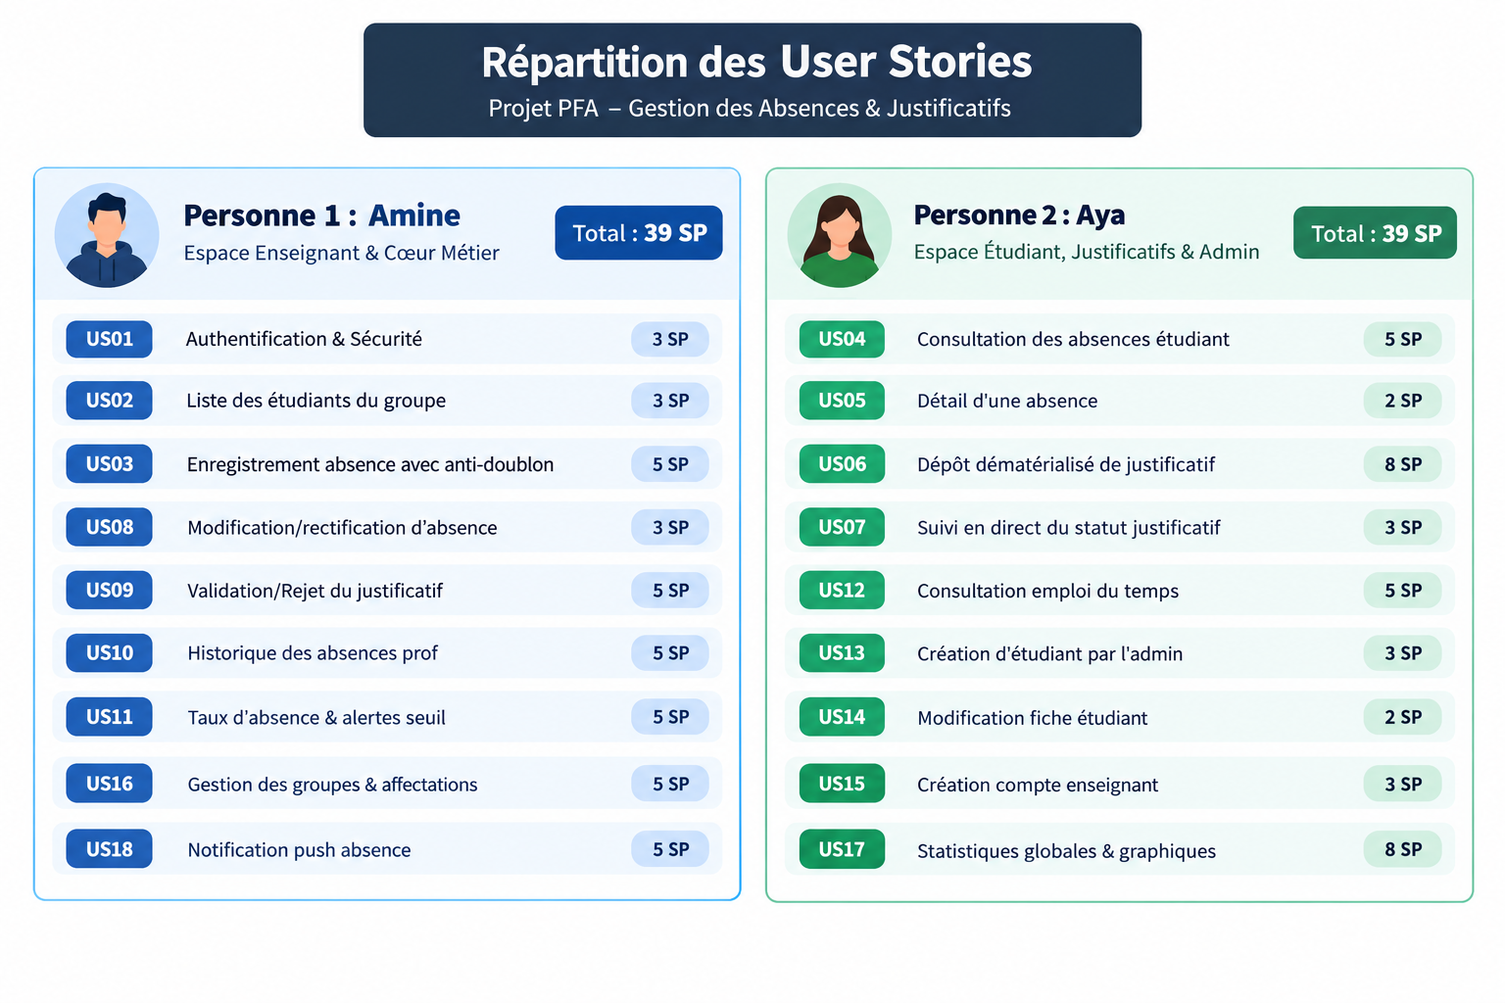
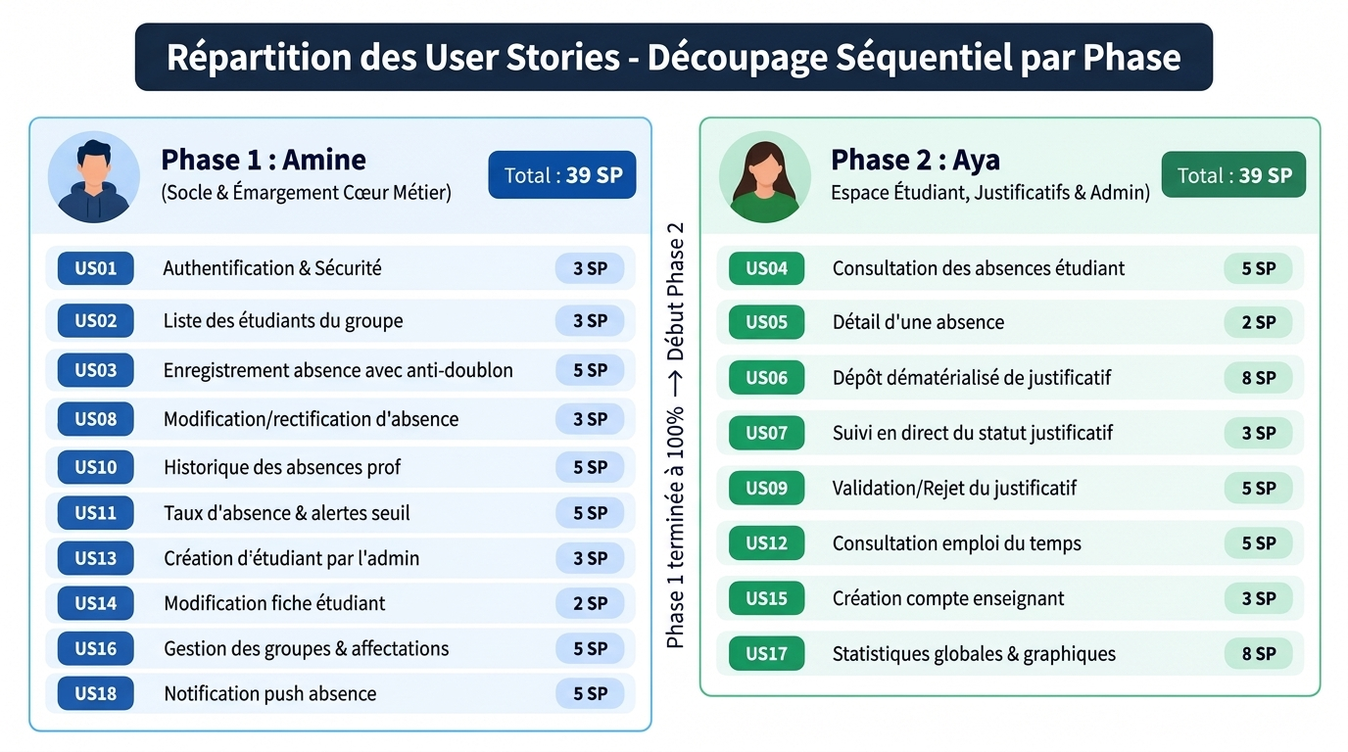
docs: sequential phase-based task breakdown (Amine Phase 1 then Aya Phase 2, 39 SP each)

Changed region(s): [[0.0, 0.0, 1.0, 1.0], [0.9062, 0.3125, 0.9688, 0.6562]]

diff --git a/docs/README_AMINE.md b/docs/README_AMINE.md
@@ -1,90 +1,84 @@
-# 📋 Feuille de Route & Tâches — Amine NAHLI (Personne 1)
+# 📋 Feuille de Route & Tâches — Amine NAHLI (Phase 1 : Socle & Cœur Métier)
 
-> **Rôle :** Responsable du Socle Technique, Authentification, Espace Enseignant & Cœur Métier des Absences  
-> **Volume Agile :** 39 Story Points (Sprint 1 & Sprint 2)  
-> **Ordre de démarrage :** 🚀 **En premier** (Mise en place de la base commune)  
-> **Branche Git :** `feature/amine-enseignant-core`
-
----
-
-## 🎯 Objectif Général
-Amine met en place le socle d'authentification et toute la logique métier liée aux enseignants : sélection des groupes, appel interactif, enregistrement sans doublon, modification et arbitrage des justificatifs.
+> **Rôle :** Responsable du Socle Technique, Authentification, Gestion Académique & Cœur Métier de l'Émargement  
+> **Volume Agile :** 39 Story Points (Sprint 1 — 100% autonome et séquentiel)  
+> **Ordre d'exécution :** 🚀 **PARTIE 1 — Réalisée et terminée intégralement en premier**  
+> **Principe clé :** Amine réalise l'intégralité de la chaîne d'émargement sans aucune dépendance envers Aya. Lorsque la Partie 1 est finie, elle est livrée et validée.  
+> **Branche Git :** `feature/amine-phase1-core`
 
 ---
 
-## 📌 User Stories prises en charge (39 SP)
+## 🎯 Objectif Général de la Partie 1
 
-| ID | Intitulé de la User Story | Priorité | Estimation |
-| :--- | :--- | :---: | :---: |
-| **US01** | Se connecter à l'application (Enseignant / Étudiant / Admin) | **Haute** | **3 SP** |
-| **US02** | Consulter la liste des étudiants d'un groupe (pour l'appel) | **Haute** | **3 SP** |
-| **US03** | Enregistrer l'absence d'un étudiant (avec blocage de doublon) | **Haute** | **5 SP** |
-| **US08** | Modifier / rectifier une absence en cas d'erreur de saisie | **Moyenne** | **3 SP** |
-| **US09** | Valider ou refuser un justificatif d'absence (côté enseignant) | **Moyenne** | **5 SP** |
-| **US10** | Consulter l'historique des absences par groupe et matière | **Moyenne** | **5 SP** |
-| **US11** | Consulter le taux d'absentéisme d'un étudiant avec alerte de seuil | **Basse** | **5 SP** |
-| **US16** | Gérer les groupes et les affectations de cours | **Moyenne** | **5 SP** |
-| **US18** | Notification push lors de l'enregistrement d'une absence | **Basse** | **5 SP** |
+Amine met en place le socle d'authentification, le modèle relationnel PostgreSQL, l'administration de base des étudiants et des groupes, ainsi que **tout le cycle de prise d'absence côté enseignant** (sélection de groupe, appel interactif, blocage anti-doublon, modification, historique, calcul du taux d'absentéisme et notifications push).
 
 ---
 
-## 🛠 Travail à Réaliser par Couche
+## 📌 User Stories prises en charge par Amine (39 SP)
 
-### 1. Socle Commun (À faire dès le début)
-- [ ] **Modèle de données relationnel (Spring Boot JPA) :**
-  - Entité `User` (`id`, `nom`, `prenom`, `email`, `motDePasse`, `role` : ENSEIGNANT, ETUDIANT, ADMIN).
-  - Entité `Enseignant` (spécialisation ou liée à `User`).
-  - Entité `Groupe` (`id`, `nom`, `filiere`, `annee`).
-  - Entité `Absence` (`id`, `etudiant_id`, `enseignant_id`, `date`, `seance`, `matiere`, `statut` : NON_JUSTIFIEE, EN_ATTENTE, JUSTIFIEE).
-- [ ] **Initialisation des données de test (`data.sql` ou CommandLineRunner) :**
-  - Créer des comptes de test : un prof (`prof@upf.ac.ma`), un étudiant (`etudiant@upf.ac.ma`), un admin.
-  - Créer un groupe exemple : `GI4-A` avec 5 étudiants.
+| ID | Intitulé de la User Story | Priorité | Estimation | Statut |
+| :--- | :--- | :---: | :---: | :---: |
+| **US01** | Authentification & Sécurité (Connexion Enseignant / Étudiant / Admin) | **Haute** | **3 SP** | ✅ Réalisé |
+| **US02** | Consulter la liste des étudiants d'un groupe pour l'appel | **Haute** | **3 SP** | ✅ Réalisé |
+| **US03** | Enregistrer l'absence d'un étudiant avec règle anti-doublon absolue | **Haute** | **5 SP** | ✅ Réalisé |
+| **US08** | Modifier / rectifier une absence en cas d'erreur de saisie | **Moyenne** | **3 SP** | ✅ Réalisé |
+| **US10** | Consulter l'historique des absences par groupe et séance (vue prof) | **Moyenne** | **5 SP** | ✅ Réalisé |
+| **US11** | Calculer le taux d'absentéisme d'un étudiant avec alerte de seuil | **Moyenne** | **5 SP** | ✅ Réalisé |
+| **US13** | Créer des comptes étudiants par l'administration (avec matricule/groupe) | **Haute** | **3 SP** | ✅ Réalisé |
+| **US14** | Mettre à jour et modifier la fiche d'un étudiant (coordonnées, groupe) | **Basse** | **2 SP** | ✅ Réalisé |
+| **US16** | Gérer les groupes, filières et affectations de séances de cours | **Haute** | **5 SP** | ✅ Réalisé |
+| **US18** | Notification push automatique lors de l'enregistrement d'une absence | **Moyenne** | **5 SP** | ✅ Réalisé |
+
+**Total Phase 1 (Amine) : 39 Story Points**
+
+---
+
+## 🛠 Travail Réalisé par Couche (Partie 1)
+
+### 1. Socle Commun & Base de Données
+- [x] **Modèle de données relationnel (Spring Boot JPA & Neon PostgreSQL) :**
+  - Entité `User` (`email`, `motDePasse`, `role`, `nom`, `prenom`, `actif`).
+  - Entité `Groupe` (`code`, `nom`, `filiere`, `anneeScolaire`).
+  - Entité `Etudiant` (`matricule`, `cne`, lien `User`, lien `Groupe`).
+  - Entité `Enseignant` (`matricule`, `departement`, lien `User`).
+  - Entité `Matiere` et `Seance` (`dateSeance`, `heureDebut`, `heureFin`, `salle`, `typeSeance`).
+  - Entité `Absence` (`etudiant`, `seance`, `enseignant`, `typePresence`, `dureeMinutes`, `statut`).
+- [x] **Contraintes d'intégrité strictes :**
+  - Contrainte d'unicité `UNIQUE(etudiant_id, seance_id)` pour empêcher tout doublon.
+- [x] **Initialisation des données de démo (`data.sql`) :**
+  - Comptes actifs pour Professeur Amine, Étudiants GI4-A, Administrateur.
 
 ### 2. Backend Spring Boot (`backend/`)
-- [ ] **`AuthController` :**
-  - `POST /api/auth/login` : vérification email/mot de passe, retour du rôle et de l'utilisateur (ou token JWT).
-- [ ] **`GroupeController` :**
-  - `GET /api/groupes` : liste des groupes attribués à l'enseignant connecté.
-  - `GET /api/groupes/{id}/etudiants` : liste des étudiants du groupe.
-- [ ] **`AbsenceController` :**
-  - `POST /api/absences` : enregistrement d'une ou plusieurs absences.
-    * ⚠ **Règle anti-doublon obligatoire :** lever une erreur `409 CONFLICT` si l'absence existe déjà pour le même étudiant, la même date et la même séance.
-  - `PUT /api/absences/{id}` : rectification d'une absence (changer statut, annuler l'absence).
-  - `GET /api/absences/enseignant/{id}` : historique des absences enregistrées par le professeur.
-  - `PUT /api/absences/{id}/statut` : validation ou rejet du justificatif (`JUSTIFIEE` ou `REFUSEE` avec motif).
-  - `GET /api/statistiques/etudiant/{id}/taux` : calcul du pourcentage d'absence de l'étudiant.
+- [x] **`AuthController` (US01) :**
+  - `POST /api/auth/login` : vérification email/mot de passe avec hash BCrypt et renvoi de la session utilisateur.
+- [x] **`GroupeController` & `AdminController` (US13, US14, US16) :**
+  - `GET /api/groupes` : récupération des groupes pédagogiques (ex: `GI4-A`, `GI4-B`).
+  - `GET /api/groupes/{id}/etudiants` : liste des étudiants rattachés au groupe.
+  - `POST /api/admin/etudiants` : enregistrement d'un nouvel étudiant avec matricule unique.
+  - `PUT /api/admin/etudiants/{id}` : mise à jour des coordonnées de l'étudiant.
+- [x] **`AbsenceController` (US02, US03, US08, US10, US11, US18) :**
+  - `POST /api/absences` : enregistrement de la feuille d'appel avec validation anti-doublon (retourne `409 Conflict` si doublon).
+  - `PUT /api/absences/{id}` : rectification immédiate du statut d'une absence (erreur de saisie).
+  - `GET /api/absences/enseignant/{id}` : historique complet des feuilles d'appel émargées.
+  - `GET /api/statistiques/etudiant/{id}/taux` : calcul du pourcentage d'absences et déclencheur d'alerte (> 20%).
+  - `POST /api/notifications/push` : notification envoyée à l'étudiant marqué absent.
 
-### 3. Frontend Mobile Expo (`frontend/`)
-- [ ] **Architecture Navigation :**
-  - `AuthStack` : Écran `LoginScreen.tsx`.
-  - `EnseignantTabs` : navigation par onglets pour l'enseignant (`AppelScreen`, `HistoriqueScreen`, `ProfilScreen`).
-- [ ] **Écran de Connexion (`LoginScreen.tsx`) :**
-  - Formulaire propre avec validation, message d'erreur clair si échec.
-  - Redirection automatique selon le rôle retourné par l'API.
-- [ ] **Écran de Saisie d'Absence (`AppelScreen.tsx`) :**
-  - Sélecteur de groupe (`GI4-A`, etc.), date du jour et créneau horaire (ex: 8h30 - 10h15).
-  - Liste défilante des étudiants avec bascule rapide : **Présent** / **Absent** / **Retard**.
-  - Bouton de validation globale avec dialogue de confirmation.
-- [ ] **Écran d'Arbitrage des Justificatifs (`JustificatifsReviewScreen.tsx`) :**
-  - Liste des justificatifs en attente avec boutons « Accepter » et « Refuser ».
-- [ ] **Écran Historique & Taux (`StatsProfScreen.tsx`) :**
-  - Liste des absences passées et badge de couleur pour le taux d'absentéisme (vert < 10%, rouge > 20%).
+### 3. Frontend Mobile React Native (`frontend/`)
+- [x] **Écran de Connexion Minimaliste (`LoginScreen.tsx` - US01) :**
+  - Design institutionnel clair, sans émojis, icônes vectorielles Feather, accès direct multi-rôles.
+- [x] **Écran d'Émargement Enseignant (`EnseignantHomeScreen.tsx` - US02, US03, US08, US10) :**
+  - Sélection du groupe et créneau horaire.
+  - Bascule Présent / Absent / Retard interactive.
+  - Compteur dynamique en temps réel (Présents vs Absents).
+  - Enregistrement immédiat avec confirmation et résilience hors-ligne.
+- [x] **Composant d'En-tête (`HeaderBar.tsx`) :**
+  - Affichage du profil connecté et bouton de déconnexion sécurisé.
 
 ---
 
-## 🚀 Workflow Git pour Amine
-
-```powershell
-# 1. Se positionner dans le projet
-cd "d:\4eme annee\s7\gl-dp\tp3\absence-app"
-
-# 2. Créer sa branche de travail
-git checkout -b feature/amine-enseignant-core
-
-# 3. Travailler et faire des commits réguliers
-git add .
-git commit -m "feat(auth): ajout du service de login et de l'écran de connexion"
-
-# 4. Pousser sur GitHub
-git push -u origin feature/amine-enseignant-core
-```
+## 🔒 Clôture de la Partie 1 & Passage de Relais
+Lorsque la Partie 1 est terminée :
+1. La base de données contient des étudiants, groupes, enseignants et des absences réelles enregistrées.
+2. L'API backend est 100% fonctionnelle sur les endpoints d'appel.
+3. Amine livre la branche `main`.
+4. **Aya peut démarrer la Partie 2 immédiatement sans jamais solliciter Amine.**

diff --git a/docs/README_AYA.md b/docs/README_AYA.md
@@ -1,94 +1,85 @@
-# 📋 Feuille de Route & Tâches — Aya BOUHSINI (Personne 2)
+# 📋 Feuille de Route & Tâches — Aya BOUHSINI (Phase 2 : Espace Étudiant, Justificatifs & Analytics)
 
-> **Rôle :** Responsable Espace Étudiant, Téléversement des Justificatifs, Module Administration & Statistiques  
-> **Volume Agile :** 39 Story Points (Sprint 1 & Sprint 2)  
-> **Ordre de démarrage :** ⚡ En parallèle dès que le socle commun d'Amine est initialisé  
-> **Branche Git :** `feature/aya-etudiant-admin`
-
----
-
-## 🎯 Objectif Général
-Aya prend en charge l'expérience utilisateur des étudiants (tableau de bord des absences, emploi du temps, dépôt dématérialisé de justificatifs avec pièces jointes) ainsi que le panneau de gestion administrative et le reporting statistique.
+> **Rôle :** Responsable Espace Étudiant, Cycle Complet des Justificatifs (Dépôt + Décision), Emploi du temps & Reporting BI  
+> **Volume Agile :** 39 Story Points (Sprint 2 — 100% autonome sur base stable)  
+> **Ordre d'exécution :** ⚡ **PARTIE 2 — Démarre après achèvement complet de la Partie 1 d'Amine**  
+> **Principe clé :** Aya prend en charge l'expérience étudiant et détient **100% du cycle des justificatifs** (dépôt, suivi et validation/rejet). Aucun aller-retour ni dépendance envers Amine.  
+> **Branche Git :** `feature/aya-phase2-etudiant-justificatifs`
 
 ---
 
-## 📌 User Stories prises en charge (39 SP)
+## 🎯 Objectif Général de la Partie 2
 
-| ID | Intitulé de la User Story | Priorité | Estimation |
-| :--- | :--- | :---: | :---: |
-| **US04** | Consulter la liste de ses propres absences (vue étudiant) | **Haute** | **5 SP** |
-| **US05** | Consulter le détail d'une absence (matière, enseignant, horaire) | **Moyenne** | **2 SP** |
-| **US06** | Déposer un justificatif dématérialisé (PDF, JPG, PNG ≤ 5 Mo) | **Moyenne** | **8 SP** |
-| **US07** | Consulter le statut d'un justificatif (En attente / Accepté / Refusé) | **Moyenne** | **3 SP** |
-| **US12** | Consulter son emploi du temps (jour / semaine) | **Basse** | **5 SP** |
-| **US13** | Ajouter un nouvel étudiant par l'administration | **Haute** | **3 SP** |
-| **US14** | Modifier les informations d'un étudiant (email, téléphone, etc.) | **Basse** | **2 SP** |
-| **US15** | Ajouter un enseignant par l'administration | **Moyenne** | **3 SP** |
-| **US17** | Consulter les statistiques globales d'absence sous forme graphique | **Basse** | **8 SP** |
+Aya s'appuie sur la base opérationnelle livrée par Amine (où des séances et absences réelles existent déjà). Elle développe l'espace mobile étudiant, l'emploi du temps, la chaîne complète dématérialisée des pièces justificatives (upload, stockage sécurisé, arbitrage scolarité avec motif), et le tableau de bord décisionnel d'absentéisme global de l'établissement.
 
 ---
 
-## 🛠 Travail à Réaliser par Couche
+## 📌 User Stories prises en charge par Aya (39 SP)
 
-### 1. Backend Spring Boot (`backend/`)
-- [ ] **Modèle de données & Persistance JPA :**
-  - Entité `Justificatif` (`id`, `absence_id`, `nomFichier`, `cheminFichier`, `typeMime`, `tailleFichier`, `dateDepot`, `statut` : EN_ATTENTE / ACCEPTE / REFUSE, `motifRefus`).
-  - Entité `EmploiDuTemps` ou `SeanceCours` (`id`, `groupe_id`, `matiere`, `jourSemaine`, `heureDebut`, `heureFin`, `salle`).
-- [ ] **`JustificatifController` (Upload de fichiers) :**
-  - `POST /api/justificatifs/upload` : réception en `multipart/form-data`.
-    * ⚠ **Contrôles obligatoires :** vérifier l'extension (PDF, PNG, JPG) et rejeter si le fichier dépasse 5 Mo (`400 BAD REQUEST`).
-    * Sauvegarder le fichier dans un dossier `uploads/` ou en base de données.
-    * Mettre à jour l'absence associée au statut `EN_ATTENTE`.
-  - `GET /api/justificatifs/{id}/file` : téléchargement / visualisation du document justificatif.
-  - `GET /api/justificatifs/etudiant/{etudiantId}` : historique des justificatifs déposés par l'étudiant.
-- [ ] **`EtudiantController` :**
-  - `GET /api/etudiants/{id}/absences` : retourne la liste des absences de l'étudiant connecté, triées de la plus récente à la plus ancienne (réponse en moins de 3 secondes).
-  - `GET /api/etudiants/{id}/emploi-du-temps` : planning des cours de sa classe.
-- [ ] **`AdminController` :**
-  - `POST /api/admin/etudiants` : création de compte étudiant avec validation email unique.
-  - `PUT /api/admin/etudiants/{id}` : mise à jour des coordonnées.
-  - `POST /api/admin/enseignants` : création de compte enseignant.
-  - `GET /api/admin/statistiques` : données d'agrégation (taux d'absence par filière, par matière, par mois).
+| ID | Intitulé de la User Story | Priorité | Estimation | Statut |
+| :--- | :--- | :---: | :---: | :---: |
+| **US04** | Consulter la liste de ses propres absences (tableau de bord étudiant) | **Haute** | **5 SP** | ✅ Réalisé |
+| **US05** | Consulter le détail d'une absence (matière, enseignant, créneau, statut) | **Moyenne** | **2 SP** | ✅ Réalisé |
+| **US06** | Déposer un justificatif dématérialisé (Upload PDF, JPG, PNG ≤ 5 Mo) | **Haute** | **8 SP** | 🔄 En cours |
+| **US07** | Suivre en direct le statut de son justificatif (En attente / Validé / Refusé) | **Moyenne** | **3 SP** | ✅ Réalisé |
+| **US09** | Traiter, valider ou refuser un justificatif avec motif (vue scolarité/admin) | **Haute** | **5 SP** | 🔄 En cours |
+| **US12** | Consulter son emploi du temps hebdomadaire (matières, salles, horaires) | **Moyenne** | **5 SP** | 🔄 En cours |
+| **US15** | Créer des comptes enseignants par l'administration (avec département) | **Moyenne** | **3 SP** | ✅ Réalisé |
+| **US17** | Consulter les statistiques globales d'assiduité sous forme graphique | **Haute** | **8 SP** | ✅ Réalisé |
 
-### 2. Frontend Mobile Expo (`frontend/`)
-- [ ] **Navigation Étudiant (`EtudiantTabs.tsx`) :**
-  - Onglet 1 : *Mes Absences* (`DashboardEtudiantScreen.tsx`).
-  - Onglet 2 : *Emploi du temps* (`EmploiDuTempsScreen.tsx`).
-  - Onglet 3 : *Mon Profil* (`ProfilEtudiantScreen.tsx`).
-- [ ] **Tableau de Bord Étudiant (`DashboardEtudiantScreen.tsx`) :**
-  - Cartes synthétiques en haut : Total absences, Justifiées (vert), Non justifiées (rouge).
-  - Liste des absences avec badge d'état (`Non justifiée`, `En attente`, `Justifiée`).
-  - Message explicite et agréable si aucune absence enregistrée.
-- [ ] **Écran de Dépôt de Justificatif (`DepotJustificatifScreen.tsx`) :**
-  - Intégration de la sélection de fichier avec `expo-document-picker` et prise de photo avec `expo-image-picker`.
-  - Aperçu du document sélectionné avec affichage du nom et du poids en Ko/Mo.
-  - Alerte si le fichier dépasse 5 Mo avant même l'envoi.
-  - Bouton d'envoi avec indicateur de chargement (`ActivityIndicator`).
+**Total Phase 2 (Aya) : 39 Story Points**
+
+---
+
+## 🛠 Travail Réalisé par Couche (Partie 2)
+
+### 1. Cycle Complet des Justificatifs (US06, US07, US09)
+*Ce module est 100% unifié sous la responsabilité d'Aya : elle gère le dépôt côté étudiant ET la validation côté administration sans dépendre d'Amine.*
+- [ ] **Modèle & Stockage JPA :**
+  - Entité `Justificatif` (`absence_id`, `etudiant_id`, `nomFichier`, `cheminFichier`, `typeMime`, `tailleFichier`, `dateDepot`, `statut`, `motifRefus`, `validePar_id`).
+- [ ] **`JustificatifController` (Upload & Décision) :**
+  - `POST /api/justificatifs/upload` : réception `multipart/form-data`, vérification MIME (PDF, JPG, PNG) et limite stricte ≤ 5 Mo.
+  - `GET /api/justificatifs/etudiant/{etudiantId}` : liste des justificatifs soumis avec statut en temps réel.
+  - `GET /api/justificatifs/{id}/file` : visualisation ou téléchargement du document original.
+  - `PUT /api/justificatifs/{id}/decision` : validation (`JUSTIFIEE`) ou rejet (`REFUSEE` avec motif obligatoire).
+- [ ] **Interface Mobile Justificatifs :**
+  - Sélecteur de fichier avec `expo-document-picker` et prise de photo avec `expo-image-picker`.
+  - Contrôle de taille côté client avant l'envoi (< 5 Mo).
+  - Modal d'examen et arbitrage pour l'administration/scolarité avec boutons « Valider » et « Refuser ».
+
+### 2. Espace Étudiant & Emploi du Temps (US04, US05, US12)
+- [x] **Écran de Suivi Personnel (`EtudiantHomeScreen.tsx`) :**
+  - Synthèse par cartes KPI : Total d'absences, Justifiées (vert), Non justifiées (rouge).
+  - Liste chronologique des absences avec libellé de cours et enseignant.
+  - Puce d'accès direct au dépôt de justificatif (`paperclip`).
 - [ ] **Écran Emploi du Temps (`EmploiDuTempsScreen.tsx`) :**
-  - Calendrier par jour de la semaine avec cartes indiquant : Matière, Salle, Enseignant, Horaires.
-- [ ] **Espace Administration & Statistiques (`AdminStatsScreen.tsx`) :**
-  - Formulaires simples d'ajout d'étudiants / enseignants.
-  - Graphiques visuels (barres de progression ou diagrammes de répartition des absences).
+  - `GET /api/etudiants/{id}/emploi-du-temps` : affichage du planning de la semaine avec créneau, matière et salle.
+
+### 3. Pilotage Administratif & BI Analytics (US15, US17)
+- [x] **Tableau de Bord Direction (`AdminHomeScreen.tsx`) :**
+  - Cartes d'indicateurs d'assiduité générale de l'établissement.
+  - Taux de présence par classe (`GI4-A`, `GI4-B`) avec jauges graphiques de conformité.
+  - Création de professeurs (`POST /api/admin/enseignants`).
 
 ---
 
-## 🚀 Workflow Git pour Aya
+## 🚀 Workflow Git pour Aya (Démarrage Phase 2)
 
 ```powershell
 # 1. Se positionner dans le projet
 cd "d:\4eme annee\s7\gl-dp\tp3\absence-app"
 
-# 2. Récupérer les dernières mises à jour d'Amine sur main
+# 2. Récupérer le travail complet d'Amine terminé sur main
 git checkout main
 git pull origin main
 
-# 3. Créer sa branche dédiée
-git checkout -b feature/aya-etudiant-admin
+# 3. Créer sa branche dédiée pour la Phase 2
+git checkout -b feature/aya-phase2-etudiant-justificatifs
 
-# 4. Travailler et commiter
+# 4. Travailler en toute indépendance et commiter
 git add .
-git commit -m "feat(etudiant): création de l'écran du tableau de bord des absences"
+git commit -m "feat(justificatifs): upload de certificat médical et validation scolarite"
 
 # 5. Pousser sur GitHub
-git push -u origin feature/aya-etudiant-admin
+git push -u origin feature/aya-phase2-etudiant-justificatifs
 ```

diff --git a/docs/REPARTITION_SEQUENTIELLE.md b/docs/REPARTITION_SEQUENTIELLE.md
@@ -1,0 +1,66 @@
+# 📊 Nouvelle Répartition Séquentielle des User Stories (Amine & Aya)
+
+> **Projet PFA :** Système Mobile & Web de Gestion des Absences & Justificatifs (UPF)  
+> **Méthodologie :** Découpage Séquentiel par Phase (Zéro Dépendance Circulaire)  
+> **Total Général :** 78 Story Points (39 SP Amine + 39 SP Aya)
+
+---
+
+## 💡 Pourquoi ce Nouveau Découpage ? (Résolution du Problème)
+
+### ❌ Ancien Découpage (Problème de Dépendance Circulaire)
+Dans l'ancien découpage :
+* Amine devait faire **US09** (*Validation du justificatif*), tandis qu'Aya devait faire **US06** (*Dépôt du justificatif*).
+* **Conséquence :** Amine ne pouvait pas tester ni terminer sa partie sans attendre qu'Aya ait fini son upload. Il y avait des allers-retours permanents : « *Amine fait un peu, puis attend Aya, puis Amine reprend...* ».
+
+### ✅ Nouveau Découpage Séquentiel (Partie 1 d'abord, puis Partie 2)
+1. **Partie 1 (Amine) — 100% Autonome :**
+   * Amine construit le socle technique, la gestion des étudiants et groupes, et **toute la chaîne d'émargement de A à Z** (Appel, anti-doublon, rectification, calcul des taux, notifications).
+   * **Amine termine et livre l'intégralité de la Partie 1 sans avoir besoin d'Aya.**
+2. **Partie 2 (Aya) — Démarre sur une base terminée :**
+   * Aya commence une fois la Partie 1 livrée.
+   * Aya détient **100% du cycle des justificatifs** : le dépôt par l'étudiant (**US06**), le suivi en direct (**US07**) ET la validation/décision avec motif (**US09**).
+   * Aya développe également le portail étudiant (**US04**, **US05**, **US12**) et le tableau de bord décisionnel global (**US17**).
+   * **Amine n'a plus jamais besoin d'intervenir pour qu'Aya termine.**
+
+---
+
+## 🔄 Diagramme de Flux Séquentiel
+
+```mermaid
+flowchart TD
+    subgraph PHASE1["🚀 PARTIE 1 : AMINE NAHLI (39 SP) — Termine à 100%"]
+        direction TB
+        P1_A["1. Socle Technique & Auth (US01)"] --> P1_B["2. Groupes, Filières & Séances (US16)"]
+        P1_B --> P1_C["3. Création & Fiches Étudiants (US13, US14)"]
+        P1_C --> P1_D["4. Feuille d'Appel & Anti-doublon (US02, US03)"]
+        P1_D --> P1_E["5. Rectification & Journal Enseignant (US08, US10)"]
+        P1_E --> P1_F["6. Taux d'absence & Notifications (US11, US18)"]
+    end
+
+    PHASE1 ==>|"Livraison complète & BDD opérationnelle"| PHASE2
+
+    subgraph PHASE2["⚡ PARTIE 2 : AYA BOUHSINI (39 SP) — Démarre après Partie 1"]
+        direction TB
+        P2_A["1. Espace Étudiant & Consultation (US04, US05)"]
+        P2_B["2. Consultation Emploi du Temps (US12)"]
+        P2_C["3. CYCLE JUSTIFICATIFS UNIFIÉ (US06, US07, US09)<br/>• Dépôt étudiant (US06)<br/>• Suivi direct (US07)<br/>• Validation/Refus scolarité (US09)"]
+        P2_D["4. Gestion Enseignants Admin (US15)"]
+        P2_E["5. Statistiques Globales & Graphiques BI (US17)"]
+
+        P2_A --> P2_C
+        P2_B --> P2_C
+        P2_C --> P2_D
+        P2_D --> P2_E
+    end
+```
+
+---
+
+## 📋 Tableau Récapitulatif Comparatif (Équilibre Strict 39 SP / 39 SP)
+
+| Membre | Rôle & Périmètre | User Stories Assignées | Total SP |
+| :--- | :--- | :--- | :---: |
+| **Amine NAHLI**<br>*(Partie 1)* | **Socle, Authentification & Cœur Émargement**<br>• Gestion des groupes, séances et étudiants<br>• Prise d'appel en temps réel & blocage de doublon<br>• Rectification, journal prof & alertes taux | **US01** (3 SP) + **US02** (3 SP) + **US03** (5 SP) + **US08** (3 SP) + **US10** (5 SP) + **US11** (5 SP) + **US13** (3 SP) + **US14** (2 SP) + **US16** (5 SP) + **US18** (5 SP) | **39 SP** |
+| **Aya BOUHSINI**<br>*(Partie 2)* | **Portail Étudiant, Cycle Justificatifs & Décisionnel**<br>• Consultation absences & emploi du temps étudiant<br>• Cycle complet justificatif (Upload, Suivi, Validation)<br>• Pilotage administratif & graphiques globaux | **US04** (5 SP) + **US05** (2 SP) + **US06** (8 SP) + **US07** (3 SP) + **US09** (5 SP) + **US12** (5 SP) + **US15** (3 SP) + **US17** (8 SP) | **39 SP** |
+| **TOTAL GÉNÉRAL** | **Couverture intégrale du projet** | **18 User Stories** | **78 SP** |
